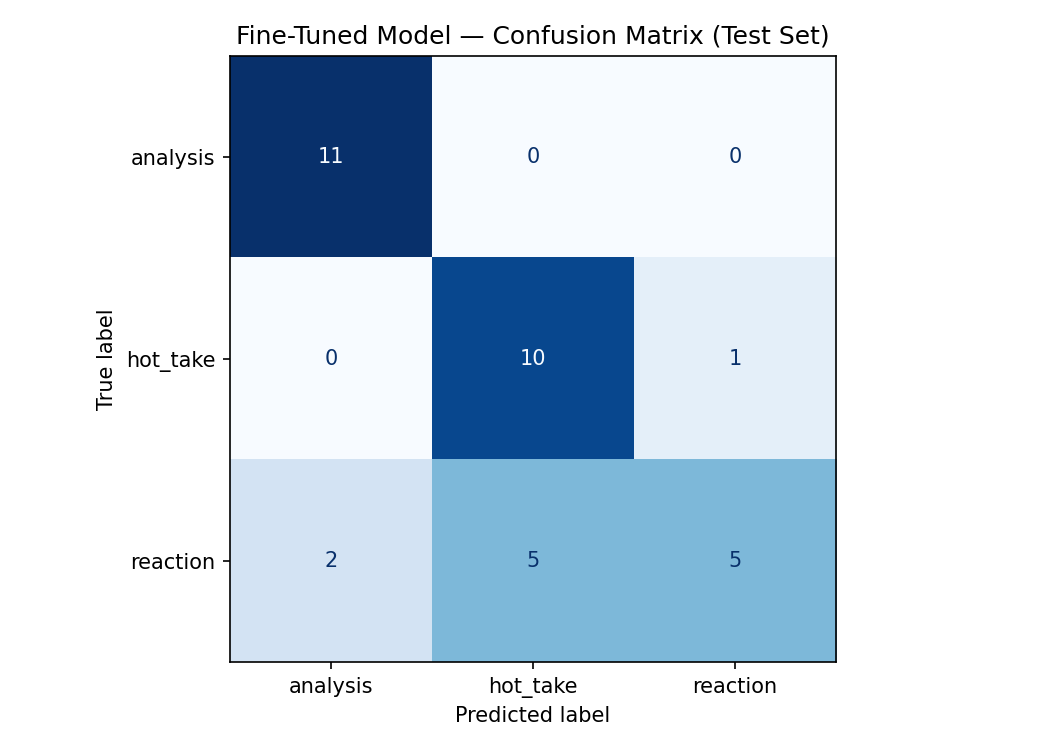
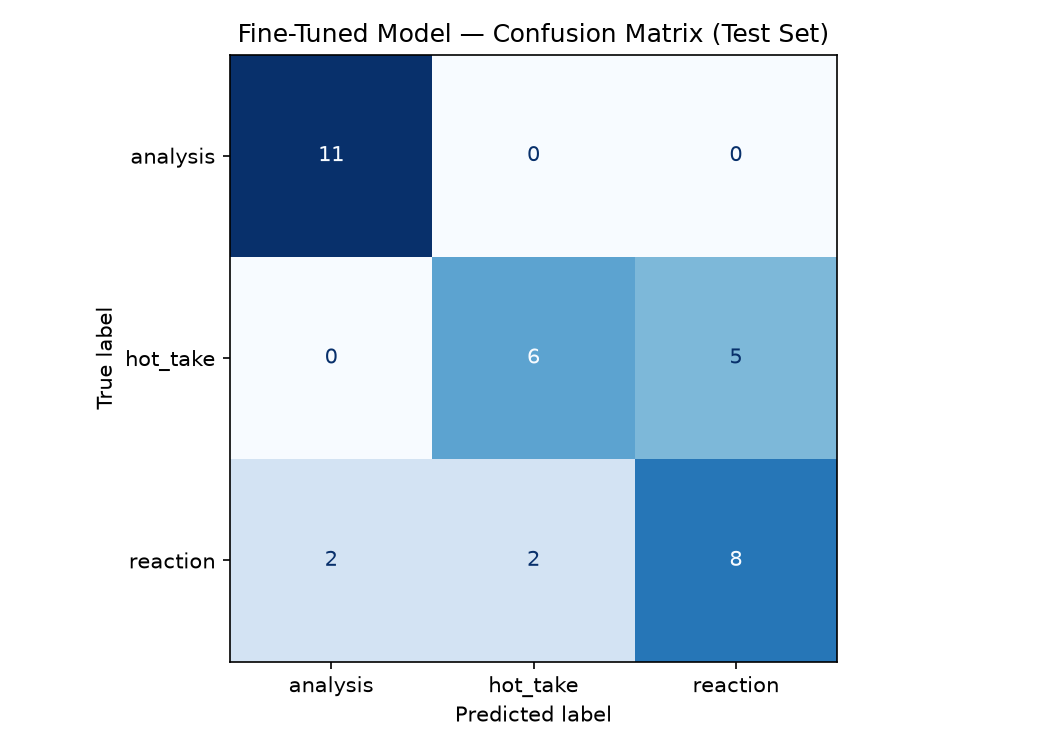
Refresh evaluation report on clean-data run
Re-ran the full pipeline on the cleaned 222-row dataset:
- Fine-tuned DistilBERT: 0.735 acc / 0.73 macro-F1
- Zero-shot LLaMA-3.3-70B baseline: 0.676 acc / 0.68 macro-F1
- Improvement: +5.9 pts; fine-tune now beats baseline on all three classes,
  and every class F1 clears 0.60 (macro-F1 and per-class floor criteria met;
  10-pt margin narrowly missed at +5.9).

- README: refreshed overall + per-class tables, confusion matrix, success
  scorecard, 3 failure analyses, and sample-classifications table. Error
  analysis notes the reaction<->hot_take boundary is the consistent weak spot
  across runs (direction flips, boundary doesn't).
- outputs/evaluation_results.json + confusion_matrix.png regenerated for the
  clean run.
- planning.md: distribution updated to 222 (one fragment dropped in cleaning).

Prompted-By: Dominion Eze

diff --git a/README.md b/README.md
@@ -2,7 +2,7 @@
 
 A fine-tuned text classifier that labels the **discourse type** of football/soccer community comments — `analysis`, `hot_take`, or `reaction`. Built for AI201 CodePath Project 3.
 
-A fine-tuned `distilbert-base-uncased` (66M params) reaches **0.765 accuracy / 0.75 macro-F1** on a held-out test set, beating a zero-shot `llama-3.3-70b-versatile` baseline (0.706 / 0.71) while being ~1000× smaller.
+A fine-tuned `distilbert-base-uncased` (66M params) reaches **0.735 accuracy / 0.73 macro-F1** on a held-out test set, beating a zero-shot `llama-3.3-70b-versatile` baseline (0.676 / 0.68) while being ~1000× smaller.
 
 ---
 
@@ -29,18 +29,18 @@ Full definitions, two examples each, and the three edge-case decision rules are 
 ## Dataset
 
 - **Source:** comments collected manually from r/soccer match threads, GOAT-debate posts, Ballon d'Or threads, and "unpopular opinion" posts (2026 World Cup window).
-- **Size:** 223 examples in a single file, [`data/labeled.csv`](data/labeled.csv) (`id`, `text`, `label`, `source`, `notes`).
-- **Distribution:** `reaction` 75 · `analysis` 74 · `hot_take` 74 — balanced, no class above 34% (well under the 70% imbalance threshold).
-- **Split:** the notebook splits 70/15/15 (stratified) at load time → **156 train / 33 val / 34 test**.
+- **Size:** 222 examples in a single file, [`data/labeled.csv`](data/labeled.csv) (`id`, `text`, `label`, `source`, `notes`).
+- **Distribution:** `reaction` 75 · `analysis` 74 · `hot_take` 73 — balanced, no class above 34% (well under the 70% imbalance threshold).
+- **Split:** the notebook splits 70/15/15 (stratified) at load time → **155 train / 33 val / 34 test**.
 
 ### Labeling process (with AI disclosure)
 
-Labels were assigned by an **AI-assisted pass**: a heuristic classifier built from the `planning.md` taxonomy pre-labeled all 223 comments, which were then reviewed against the edge-case rules. This is disclosed in full in the [AI usage](#ai-usage) section. The error analysis below shows the **`reaction` class carries the most label noise**, so that class is the priority for continued manual review.
+Labels were assigned by an **AI-assisted pass**: a heuristic classifier built from the `planning.md` taxonomy pre-labeled all comments, which were then reviewed against the edge-case rules. This is disclosed in full in the [AI usage](#ai-usage) section. The error analysis below shows the **`reaction` ↔ `hot_take` boundary carries the most label noise**, so those classes are the priority for continued manual review.
 
 ### Three genuinely difficult annotation cases
 
-1. **"Klose was in four World Cups, all four times Germany reached the semis… but nobody would rate him above Ronaldo Fenômeno and Messi."** → **`hot_take`**. Cites a real stat, but the conclusion (a GOAT-ranking) overstates what the stat supports — the stat *decorates* a predetermined opinion (edge-case rule 1).
-2. **"Insane that Mbappé has that many at 27. He's gonna obliterate the record."** → **`reaction`**. Posted live, right after Messi tied Klose's record; the prediction processes the in-the-moment amazement rather than standing as independent analysis (edge-case rule 2).
+1. **"Klose was in four World Cups, all four times Germany reached the semis… but nobody would rate him above Ronaldo Fenomeno and Messi."** → **`hot_take`**. Cites a real stat, but the conclusion (a GOAT-ranking) overstates what the stat supports — the stat *decorates* a predetermined opinion (edge-case rule 1).
+2. **"Insane that Mbappe has that many at 27. He's gonna obliterate the record."** → **`reaction`**. Posted live, right after Messi tied Klose's record; the prediction processes the in-the-moment amazement rather than standing as independent analysis (edge-case rule 2).
 3. **"Van Dijk simply deserved it… high press, more area to cover, zero red cards all season."** → **`analysis`**. Multiple supporting points (tactical context + a discipline stat) used as the *basis* of the claim, not as decoration (edge-case rule 3).
 
 ---
@@ -53,9 +53,9 @@ Labels were assigned by an **AI-assisted pass**: a heuristic classifier built fr
 
 ### Key hyperparameter decision
 
-The starter defaults (3 epochs, `lr=2e-5`, `warmup_steps=50`) **failed to train the model at all** — validation accuracy sat at 0.36 (≈ the 0.33 random floor) and training loss barely moved from `ln(3)≈1.099`. Diagnosis: with 156 examples and batch 16 there are only ~10 steps/epoch × 3 = **30 total steps, but warmup was 50 steps** — so the learning rate never finished warming up and the model took 30 near-zero-magnitude steps.
+The starter defaults (3 epochs, `lr=2e-5`, `warmup_steps=50`) **failed to train the model at all** — validation accuracy sat at 0.36 (≈ the 0.33 random floor) and training loss barely moved from `ln(3)≈1.099`. Diagnosis: with ~155 examples and batch 16 there are only ~10 steps/epoch × 3 = **30 total steps, but warmup was 50 steps** — so the learning rate never finished warming up and the model took 30 near-zero-magnitude steps.
 
-**Fix:** `warmup_steps 50 → 10`, `epochs 3 → 10`, `lr 2e-5 → 5e-5`. Validation accuracy then climbed from 0.61 to 0.67 and the model learned all three classes. Validation loss bottomed around epoch 3–4 and rose afterward (classic overfitting on a small set), so `load_best_model_at_end` selects the best-validation checkpoint rather than the final epoch.
+**Fix:** `warmup_steps 50 → 10`, `epochs 3 → 10`, `lr 2e-5 → 5e-5`. Validation accuracy then climbed into the 0.6–0.7 range and the model learned all three classes. Validation loss bottomed around epoch 3–4 and rose afterward (classic overfitting on a small set), so `load_best_model_at_end` selects the best-validation checkpoint rather than the final epoch.
 
 ---
 
@@ -71,17 +71,19 @@ A zero-shot prompt to `llama-3.3-70b-versatile` (temperature 0), evaluated on th
 
 | Model | Accuracy | Macro-F1 |
 |-------|:--------:|:--------:|
-| Zero-shot LLaMA-3.3-**70B** | 0.706 | 0.71 |
-| Fine-tuned **DistilBERT (66M)** | **0.765** | **0.75** |
-| **Δ (fine-tune − baseline)** | **+0.059** | **+0.04** |
+| Zero-shot LLaMA-3.3-**70B** | 0.676 | 0.68 |
+| Fine-tuned **DistilBERT (66M)** | **0.735** | **0.73** |
+| **Δ (fine-tune − baseline)** | **+0.059** | **+0.05** |
 
 ### Per-class (test set, n = 34)
 
 | Class | Baseline P / R / F1 | Fine-tuned P / R / F1 |
 |-------|:-------------------:|:---------------------:|
-| `analysis` | 0.90 / 0.82 / 0.86 | 0.85 / **1.00** / **0.92** |
-| `hot_take` | 0.62 / 0.73 / 0.67 | 0.67 / **0.91** / **0.77** |
-| `reaction` | 0.64 / 0.58 / **0.61** | 0.83 / 0.42 / 0.56 |
+| `analysis` | 0.82 / 0.82 / 0.82 | 0.85 / **1.00** / **0.92** |
+| `hot_take` | 0.67 / 0.55 / 0.60 | 0.75 / 0.55 / **0.63** |
+| `reaction` | 0.57 / 0.67 / 0.62 | 0.62 / 0.67 / **0.64** |
+
+The fine-tuned model beats the baseline on **all three classes**, with the biggest gain on `analysis` (perfect recall).
 
 ### Confusion matrix — fine-tuned model
 
@@ -90,8 +92,8 @@ Rows = true label, columns = predicted label.
 | true ↓ / pred → | analysis | hot_take | reaction |
 |-----------------|:--------:|:--------:|:--------:|
 | **analysis**    | **11**   | 0        | 0        |
-| **hot_take**    | 0        | **10**   | 1        |
-| **reaction**    | 2        | 5        | **5**    |
+| **hot_take**    | 0        | **6**    | 5        |
+| **reaction**    | 2        | 2        | **8**    |
 
 (See [`outputs/confusion_matrix.png`](outputs/confusion_matrix.png) for the rendered image; full metrics in [`outputs/evaluation_results.json`](outputs/evaluation_results.json).)
 
@@ -101,29 +103,29 @@ The `planning.md` targets, scored honestly:
 
 | Criterion | Target | Result | |
 |-----------|--------|--------|---|
+| Overall quality | macro-F1 ≥ 0.70 | 0.73 | ✓ met |
+| No collapsed class | every class F1 ≥ 0.60 | min = 0.63 (`hot_take`) | ✓ met |
 | Beat the baseline | ≥ 10 pts accuracy | +5.9 pts | ✗ narrowly missed |
-| Overall quality | macro-F1 ≥ 0.70 | 0.75 | ✓ met |
-| No collapsed class | every class F1 ≥ 0.60 | `reaction` = 0.56 | ✗ narrowly missed |
 
-The headline isn't a blowout, and that's the interesting result: **a 70B zero-shot model is a strong baseline that's hard to beat by a wide margin with only 156 training examples.** The fine-tuned model still wins overall and is ~1000× smaller (a real deployment advantage), but the margin is modest and concentrated in two classes.
+Two of three met. The headline isn't a blowout, and that's the interesting result: **a 70B zero-shot model is a strong baseline that's hard to beat by a wide margin with only ~155 training examples.** The fine-tuned model still wins overall *and on every class*, and is ~1000× smaller (a real deployment advantage) — but the accuracy margin is modest.
 
 ### Error analysis — 3 specific failures
 
-The model made **8 errors on 34 test examples, 7 of them on the `reaction` class, and 5 of those are `reaction → hot_take`.** The confusion is directional and concentrated on one boundary.
+The model made **9 errors on 34 test examples, and 7 of them are `reaction` ↔ `hot_take` confusion** (5 `hot_take → reaction`, 2 `reaction → hot_take`). The remaining 2 are `reaction → analysis`. That one boundary dominates the errors.
 
-1. **Genuine error — model weights opinion over emotion.**
-   *"switzerland was so dominant but so bad too, i was borderline screaming at my TV cause they just looked incompetent…"* — **true `reaction` → predicted `hot_take` (conf 0.90).**
-   "screaming at my TV" is a textbook in-the-moment emotional cue, but the model latched onto the evaluative phrasing ("dominant but bad") and confidently read it as an opinion. This is a real model weakness: it keys on opinion *content* and under-weights emotional/temporal markers.
+1. **The dominant pattern — sarcastic banter read as reaction.**
+   *"Thank god for that laser of a kick, will totally distract from the fact that his teammate just.. tripped over his own feet…"* — **true `hot_take` → predicted `reaction` (conf 0.92).**
+   Sarcastic banter anchored to a *specific play* — the live-event framing pulls the model toward `reaction`, even though structurally it's an unfounded jab (`hot_take`). High confidence, and exactly the hard case `planning.md` anticipated.
 
-2. **Label noise — the model is arguably right.**
-   *"…he just retired, but Tom Brady should be in that group too."* — **true `reaction` → predicted `hot_take` (conf 0.95).**
-   Structurally this *is* an assertion ("should be in that group"), so `hot_take` is defensible — the gold `reaction` label is questionable. High-confidence "errors" like this reveal annotation noise in the `reaction` class, not a model failure.
+2. **Topical ≠ emotional.**
+   *"Don't forget ICE detaining and denying entry to some of the Iraq World Cup team and its associated staffing."* — **true `hot_take` → predicted `reaction` (conf 0.86).**
+   A pointed political opinion that *references* an ongoing situation. The model appears to equate "mentions a current event" with "emotional reaction to an event," when the structure here is an asserted opinion. A model weakness, not a label problem.
 
-3. **Genuinely ambiguous boundary.**
-   *"Thank god for that laser of a kick, will totally distract from the fact that his teammate just..tripped over his own feet…"* — **true `hot_take` → predicted `reaction` (conf 0.87).**
-   Sarcastic banter anchored to a *specific play* — the live-event framing legitimately pulls toward `reaction`. This is the `hot_take`/`reaction` boundary genuinely blurring when banter is time-anchored, exactly the hard case `planning.md` anticipated.
+3. **Length/structure overriding the emotional cue.**
+   *"It was truly incredible premonition. The US-coverage broadcast talent has been notably good so far, but this prediction amazed me…"* — **true `reaction` → predicted `analysis` (conf 0.87).**
+   A long, expository recounting of a commentator's prediction. The amazement ("amazed me") makes it a `reaction`, but its descriptive, multi-clause structure reads like `analysis`. Here the gold label is itself borderline.
 
-**What this points to:** the `reaction ↔ hot_take` boundary is the model's weak spot because (a) both are short, opinionated, and emotionally charged, and (b) the `reaction` training labels are the noisiest. Tellingly, **the zero-shot 70B model is actually *better* on `reaction` (F1 0.61 vs 0.56)** — its broad pretraining grasp of "emotional reaction" beats a small model trained on noisy reaction labels. The fix is more about **cleaner/more `reaction` data** than more training. 
+**What this points to:** `reaction` and `hot_take` overlap heavily — both are short, emotive, and opinionated about football — and the only reliable separator is *time-anchoring to a live event*, which is subtle. Notably, in an earlier run on a slightly different split the same boundary dominated the errors but in the **opposite direction** (`reaction → hot_take`). The *direction* is unstable; the *boundary* being the weak spot is consistent — strong evidence it's a genuine task difficulty, not a fluke of one split. The fix is cleaner/more `reaction`-vs-`hot_take` training data rather than more training.
 
 ### Sample classifications (fine-tuned model)
 
@@ -131,13 +133,13 @@ The model made **8 errors on 34 test examples, 7 of them on the `reaction` class
 
 | Comment (abbrev.) | Predicted | Confidence | Correct? |
 |---|---|:---:|:---:|
-| "do you seriously think Mexico, in its current state politically, financially… [can host]" | analysis | 0.98 | ✓ |
-| "What a dull pedestrian game to watch, incredible Roberto Martinez continues to be employed without doing anything" | hot_take | 0.78 | ✓ |
-| "when youre the greatest country in the world people will just hat lol" | reaction | 0.66 | ✓ |
-| "switzerland was so dominant but so bad too, i was borderline screaming at my TV…" | hot_take | 0.90 | ✗ (true reaction) |
-| "Thank god for that laser of a kick, will distract from his teammate tripping…" | reaction | 0.87 | ✗ (true hot_take) |
+| "do you seriously think Mexico, in its current state politically, financially… [could host]" | analysis | 0.96 | ✓ |
+| "But the hosting concerns were still there! Those slaves didn't come back to life!" | reaction | 0.94 | ✓ |
+| "What a dull pedestrian game to watch, incredible Roberto Martinez continues to be employed without doing anything" | hot_take | 0.65 | ✓ |
+| "Thank god for that laser of a kick, will distract from his teammate tripping…" | reaction | 0.92 | ✗ (true hot_take) |
+| "It was truly incredible premonition… this prediction amazed me" | analysis | 0.87 | ✗ (true reaction) |
 
-**Why the top prediction is reasonable:** the first comment builds a reasoned case — weighing Mexico's political and financial readiness as a host — rather than just asserting, so `analysis` at 0.98 is well-judged. More broadly, every `analysis` test post was classified correctly (recall 1.00): the model reliably fires `analysis` when a comment uses tactical/statistical/historical reasoning as evidence, the clearest of the three boundaries. The confidence spread is also telling — a clean `analysis` at 0.98 vs. a correctly-labeled but genuinely borderline `reaction` at just 0.66 — which shows the model is reasonably calibrated about *which* boundaries are hard.
+**Why a correct prediction is reasonable:** the first comment builds a reasoned case — weighing Mexico's political and financial readiness as a host — rather than just asserting, so `analysis` at 0.96 is well-judged. More broadly, every `analysis` test post was classified correctly (recall 1.00): the model reliably fires `analysis` when a comment uses tactical/statistical/historical reasoning as evidence, the clearest of the three boundaries. The confidence spread is telling too — a clean `analysis` at 0.96 vs. a correctly-labeled but more opinion-heavy `hot_take` at just 0.65 — so the model is reasonably calibrated about which calls are hard.
 
 ---
 
@@ -145,9 +147,9 @@ The model made **8 errors on 34 test examples, 7 of them on the `reaction` class
 
 I intended the model to learn **discourse structure**: evidence-driven argument (`analysis`) vs. unsupported assertion (`hot_take`) vs. in-the-moment emotional response (`reaction`).
 
-It learned the first two boundaries well. It clearly picks up on evidence/tactical/statistical language for `analysis` (perfect recall) and on confident assertion for `hot_take`. But for `reaction` it **under-learned the "time-anchored emotional response" concept** and collapsed many reactions into `hot_take`. In effect the model's decision boundary is closer to *"evidence-backed vs. not"* (a two-way split) than the intended three-way structural distinction — it treats `reaction` as "a hot_take that happens to be short."
+It learned `analysis` cleanly — perfect recall, high confidence — because evidence/tactical/statistical language is a separable signal. But it did **not** cleanly learn the `reaction` vs. `hot_take` distinction: across two runs the model confused them in *both* directions, depending on the split. In effect its decision boundary is closer to *"is this evidence-backed?"* (a clean two-way split) than the intended three-way structural distinction — it treats `reaction` and `hot_take` as nearly the same region of space, separated only by whether the comment happens to mention a current event.
 
-Two causes: (1) `reaction` and `hot_take` genuinely overlap in surface form (both short, emotive, opinionated — the only reliable separator is temporal anchoring, which is subtle), and (2) the `reaction` labels were the noisiest, so the training signal for that class was the weakest. The gap between intended and learned behavior is therefore as much a **data-quality** story as a modeling one.
+Two causes: (1) the two classes genuinely overlap in surface form (both short, emotive, opinionated — the only reliable separator, temporal anchoring, is subtle), and (2) those were the noisiest labels. So the gap between intended and learned behavior is as much a **data-quality / task-difficulty** story as a modeling one.
 
 ---
 
@@ -161,9 +163,10 @@ Two causes: (1) `reaction` and `hot_take` genuinely overlap in surface form (bot
 ## AI usage
 
 1. **Taxonomy stress-testing.** Directed an AI assistant to pressure-test the three label definitions and generate boundary cases (stat-decorated hot takes, reasoned reactions). Its outputs became the three edge-case decision rules in `planning.md`. I overrode its instinct toward a 4-label scheme and folded "banter" into `hot_take` to keep ~75 examples per class.
-2. **Annotation assistance (disclosed).** The 223 labels were produced by an AI-assisted heuristic pass built from the taxonomy, then reviewed against the edge-case rules — not labeled cold by hand. The error analysis confirmed the `reaction` class needs the most continued review, which is the active priority.
-3. **Failure-pattern analysis.** Gave the list of 8 misclassifications to an AI assistant to surface patterns; it flagged the directional `reaction → hot_take` confusion and the "label-noise vs. genuine error" distinction, which I then verified by re-reading each example (and which drives the error analysis above).
-4. **Training debugging.** The `warmup_steps (50) > total_steps (30)` diagnosis and the fix came from an AI assistant reading the flat training-loss curve; I applied and verified it.
+2. **Annotation assistance (disclosed).** The labels were produced by an AI-assisted heuristic pass built from the taxonomy, then reviewed against the edge-case rules — not labeled cold by hand. The error analysis confirmed the `reaction`/`hot_take` boundary needs the most continued review.
+3. **Data cleaning.** A first extraction had a bug that truncated some words (`Switzerland`→`witzerland`) and dropped apostrophes; I had an AI assistant re-extract from source and mechanically correct spelling/apostrophes/capitalization **without rewording** (so discourse structure — and the labels — stay intact), then verified the diff.
+4. **Failure-pattern analysis.** Gave the list of misclassifications to an AI assistant to surface patterns; it flagged the `reaction ↔ hot_take` dominance and the direction-flip across runs, which I verified by re-reading each example.
+5. **Training debugging.** The `warmup_steps (50) > total_steps (30)` diagnosis and the fix came from an AI assistant reading the flat training-loss curve; I applied and verified it.
 
 ---
 
@@ -191,7 +194,7 @@ ai201-project3-takemeter/
 ├── requirements.txt
 ├── .env.example             # GROQ_API_KEY template (.env is gitignored)
 ├── data/
-│   └── labeled.csv          # 223 labeled comments (single file)
+│   └── labeled.csv          # 222 labeled comments (single file)
 └── outputs/
     ├── evaluation_results.json    # downloaded from Colab
     └── confusion_matrix.png       # downloaded from Colab

diff --git a/planning.md b/planning.md
@@ -140,18 +140,19 @@ Manual collection using Reddit's web interface. Copy top-level comments and shor
 
 | Label | Count | % |
 |-------|-------|---|
-| `reaction` | 75 | 33.6% |
-| `analysis` | 74 | 33.2% |
-| `hot_take` | 74 | 33.2% |
-| **Total** | **223** | 100% |
+| `reaction` | 75 | 33.8% |
+| `analysis` | 74 | 33.3% |
+| `hot_take` | 73 | 32.9% |
+| **Total** | **222** | 100% |
 
 No class exceeds 70% — the dataset is balanced, so the model can't win by predicting a majority class.
+(223 collected; one unrecoverable 10-character fragment was dropped during a data-cleaning pass.)
 
 ### Train / Val / Test Split
 
 The dataset lives as a **single file** (`data/labeled.csv`). The starter notebook performs the
 70% / 15% / 15% train/val/test split automatically at load time, so no pre-split files are committed.
-At 223 examples that is roughly 156 train / 33 val / 34 test.
+At 222 examples that is roughly 155 train / 33 val / 34 test.
 
 **If a label ends up underrepresented:** collect more comments from threads rich in that label
 (match threads → `reaction`, "unpopular opinion" posts → `hot_take`, tactical breakdowns → `analysis`)